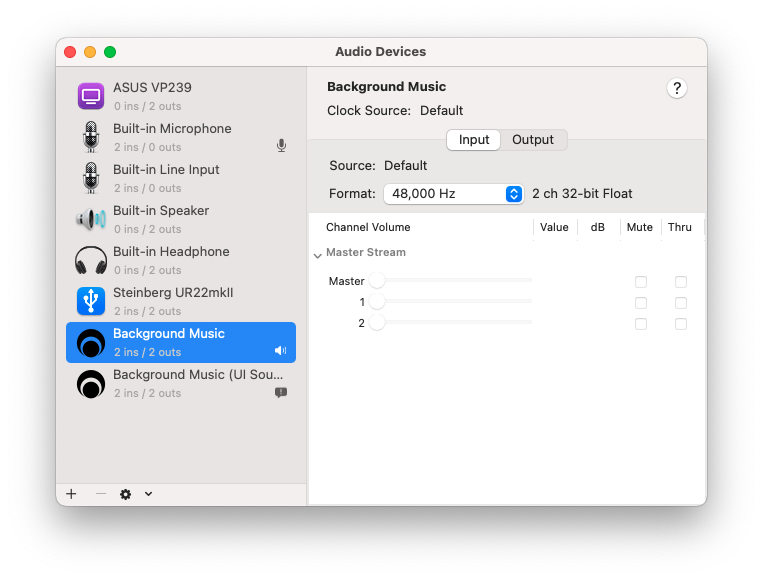
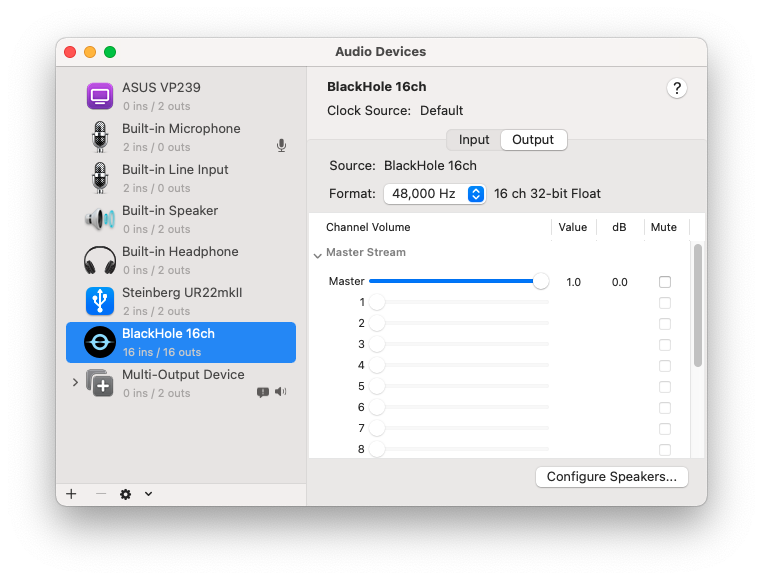
BlackHole

diff --git a/2020/12/macos-quicktime-screen-recording-48-khz-sample-rate.html b/2020/12/macos-quicktime-screen-recording-48-khz-sample-rate.html
@@ -78,9 +78,10 @@
 <p>Each time I write the title of a new article on this blog I feel even
 more like a nerd. So be it.</p>
 <p>When you do a screen recording on macOS, you can capture audio from your
-microphone. Or using a tool like <a href="https://github.com/kyleneideck/BackgroundMusic">Background Music</a>
-you can even record your system sounds (use 0.4.0-SNAPSHOT on Big Sur,
-works like a charm)!</p>
+microphone. Or using a tool like <a href="https://github.com/ExistentialAudio/BlackHole">BlackHole</a>
+you can even record your system sounds (get the direct download URL from
+the <a href="https://github.com/Homebrew/homebrew-cask/blob/master/Casks/blackhole.rb">Homebrew formula</a>
+if you don’t want to sign up)!</p>
 <p>Either way, by default the screen recording utility that you can open
 using <kbd>Command</kbd> + <kbd>Shift</kbd> + <kbd>5</kbd> (which is the
 same thing as opening QuickTime and doing <em>File</em>, <em>New Screen
